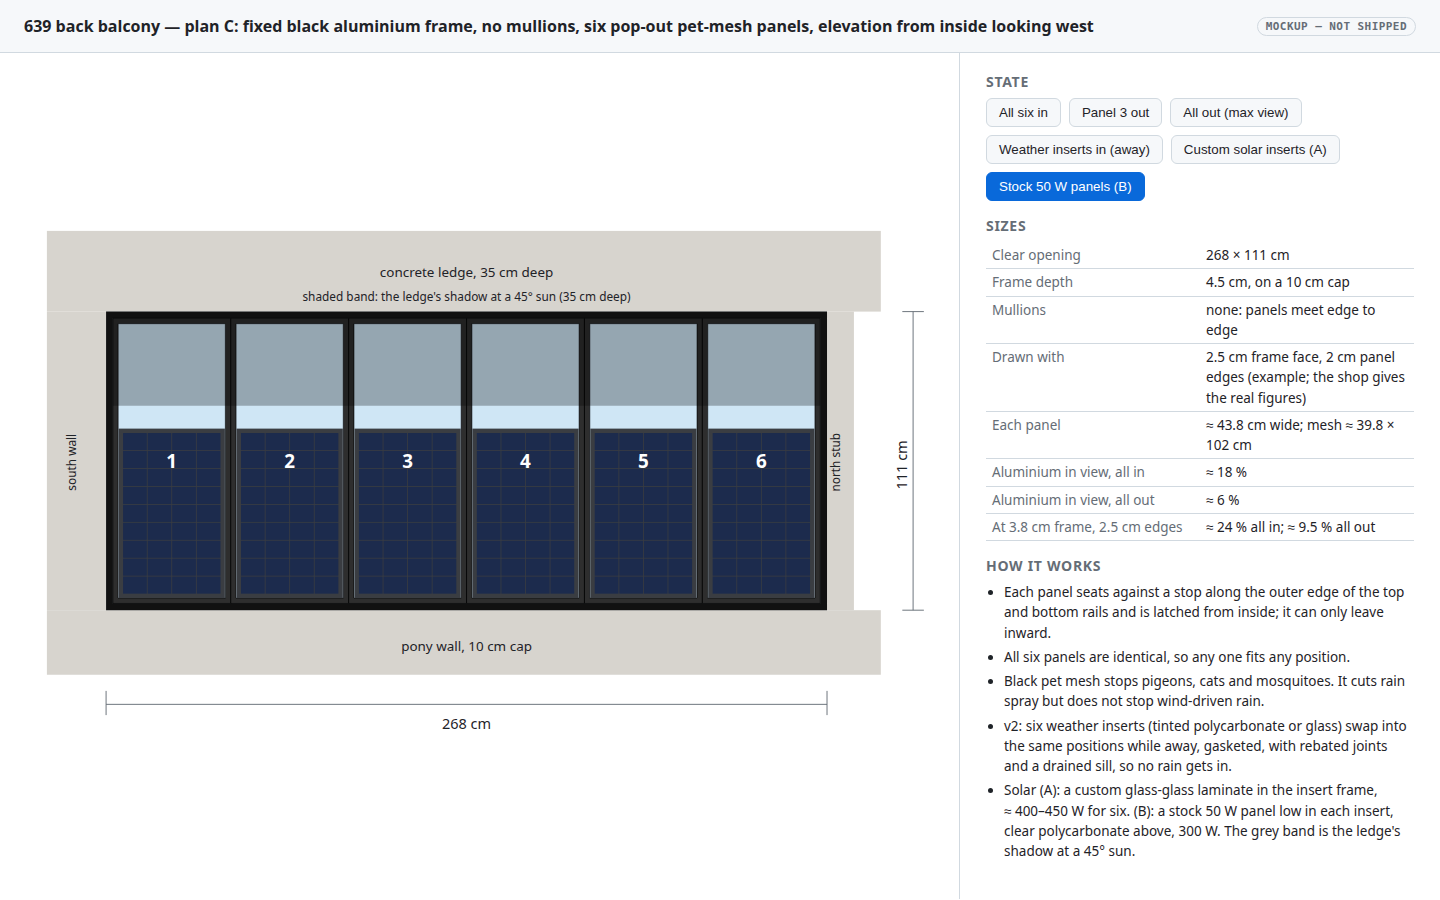
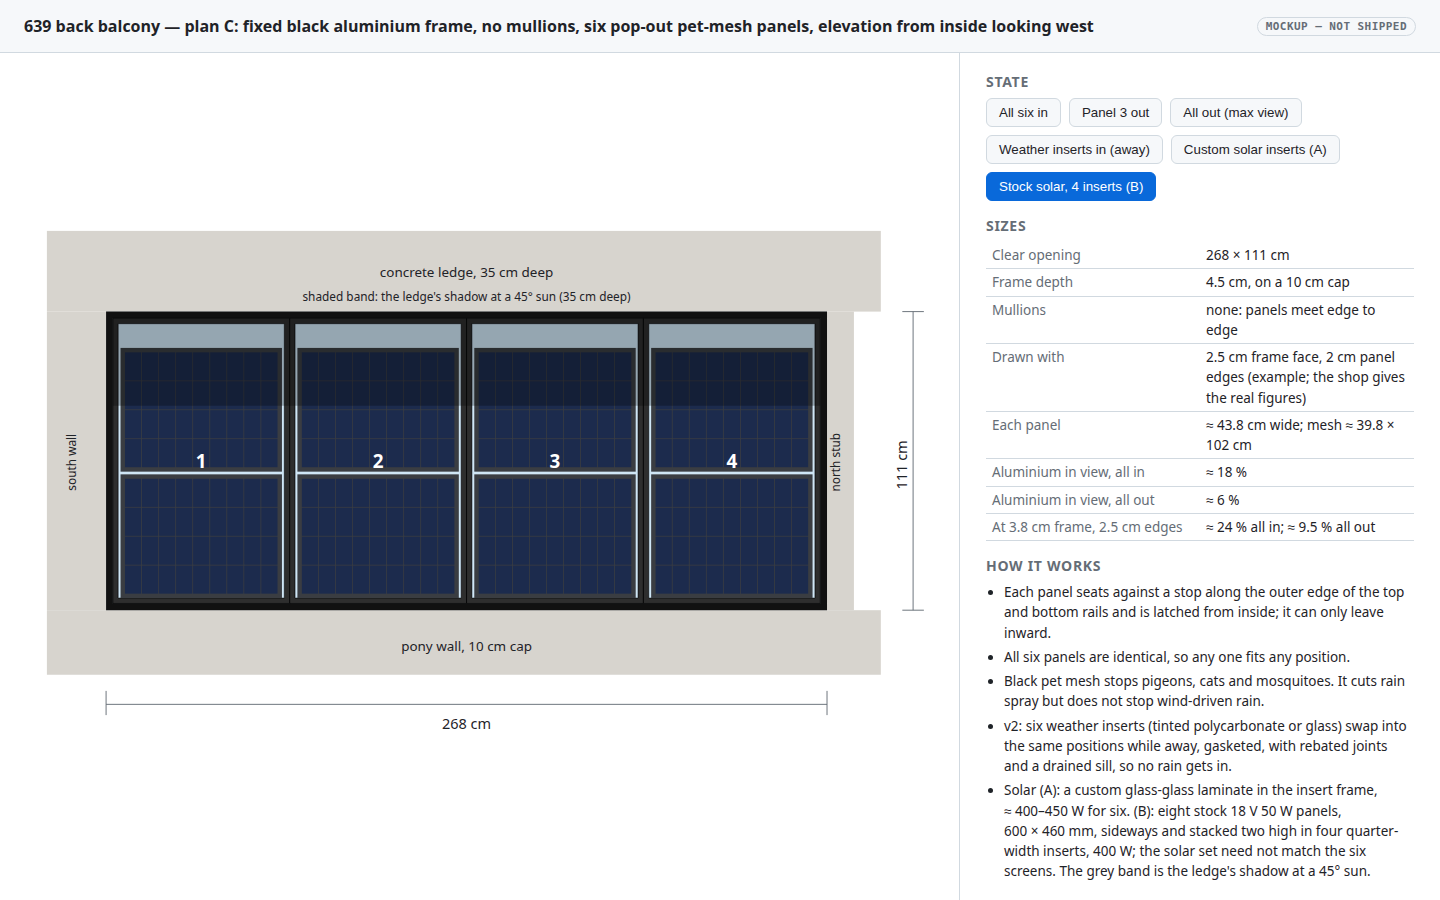
Balcony screen frame: Lazada stock panels; solar set no longer six-alike
Will (2026-11-11): six panels were for aesthetics, so the solar set need
not match them. Recommends eight 18 V 50 W panels (600 x 460, Lazada
flash price 234.52 THB) sideways, two high, in four quarter-width
inserts: 400 W, about 280-320 W after the ledge's shade. Adds the 18 V
30 W (390 x 430) and 80 W (960 x 460) sizes, revises the yield value and
payback (panels 2-3 years; whole kit 4.5-19 years), and redraws the
stock mockup state.

Claude-Session: https://claude.ai/code/session_01YEenqRTjYzU5APTKovfevg

Changed region(s): [[0.0625, 0.3422, 0.5625, 0.6844], [0.6875, 0.8711, 0.9688, 0.9956], [0.7188, 0.1867, 0.8125, 0.2178]]

diff --git a/docs/plans/2026-11-09-condo-639-balcony-screen-frame/elevation-plan-c.html b/docs/plans/2026-11-09-condo-639-balcony-screen-frame/elevation-plan-c.html
@@ -38,7 +38,7 @@
 <div class="side">
   <h2>State</h2>
   <div class="btns" id="states">
-    <button data-s="all">All six in</button><button data-s="one">Panel 3 out</button><button data-s="none">All out (max view)</button><button data-s="ins">Weather inserts in (away)</button><button data-s="solar">Custom solar inserts (A)</button><button data-s="stock">Stock 50 W panels (B)</button>
+    <button data-s="all">All six in</button><button data-s="one">Panel 3 out</button><button data-s="none">All out (max view)</button><button data-s="ins">Weather inserts in (away)</button><button data-s="solar">Custom solar inserts (A)</button><button data-s="stock">Stock solar, 4 inserts (B)</button>
   </div>
   <h2>Sizes</h2>
   <table>
@@ -57,7 +57,7 @@
     <li>All six panels are identical, so any one fits any position.</li>
     <li>Black pet mesh stops pigeons, cats and mosquitoes. It cuts rain spray but does not stop wind-driven rain.</li>
     <li>v2: six weather inserts (tinted polycarbonate or glass) swap into the same positions while away, gasketed, with rebated joints and a drained sill, so no rain gets in.</li>
-    <li>Solar (A): a custom glass-glass laminate in the insert frame, ≈&nbsp;400–450&nbsp;W for six. (B): a stock 50&nbsp;W panel low in each insert, clear polycarbonate above, 300&nbsp;W. The grey band is the ledge's shadow at a 45° sun.</li>
+    <li>Solar (A): a custom glass-glass laminate in the insert frame, ≈&nbsp;400–450&nbsp;W for six. (B): eight stock 18&nbsp;V 50&nbsp;W panels, 600&nbsp;×&nbsp;460&nbsp;mm, sideways and stacked two high in four quarter-width inserts, 400&nbsp;W; the solar set need not match the six screens. The grey band is the ledge's shadow at a 45° sun.</li>
   </ul>
 </div>
 </main>
@@ -73,10 +73,18 @@ function draw(state){
   g+=`<text x="-11" y="56" font-size="4.4" text-anchor="middle" transform="rotate(-90 -11 56)">south wall</text><text x="273" y="56" font-size="4.4" text-anchor="middle" transform="rotate(-90 273 56)">north stub</text>`;
   // frame: perimeter only, no mullions; each panel has its own edge frame S
   g+=`<path fill="var(--frame)" fill-rule="evenodd" d="M0 0H${W}V${H}H0Z M${F} ${F}H${W-F}V${H-F}H${F}Z"/>`;
-  for(let i=0;i<6;i++){
+  if(state==='stock'){ const qw=(W-2*F)/4;
+    for(let i=0;i<4;i++){ const x=F+i*qw;
+      g+=`<path fill="#2e2e2e" fill-rule="evenodd" stroke="#000" stroke-width=".3" d="M${x} ${F}h${qw}v${bh}h${-qw}Z M${x+S} ${F+S}v${bh-2*S}h${qw-2*S}v${-(bh-2*S)}Z"/><rect x="${x+S}" y="${F+S}" width="${qw-2*S}" height="${bh-2*S}" fill="rgba(207,230,245,.35)"/>`;
+      const pw=60, ph=46, px=x+(qw-pw)/2;
+      for(let k=0;k<2;k++){ const py=F+bh-S-ph*(k+1)-k*1; g+=`<rect x="${px}" y="${py}" width="${pw}" height="${ph}" fill="#3a3d42"/>`; const cw=(pw-3)/9, ch=(ph-3)/4;
+        for(let r=0;r<4;r++) for(let c=0;c<9;c++) g+=`<rect x="${px+1.5+c*cw+.15}" y="${py+1.5+r*ch+.15}" width="${cw-.3}" height="${ch-.3}" fill="#1c2b4d"/>`; }
+      g+=`<rect x="${x}" y="${F}" width="${qw}" height="32.5" fill="rgba(0,0,0,.28)"/><text x="${x+qw/2}" y="58" font-size="7" font-weight="700" text-anchor="middle" style="fill:#fff">${i+1}</text>`; }
+  }
+  for(let i=0;i<6;i++){ if(state==='stock') break;
     const x=F+i*bw, out = state==='none' || (state==='one' && i===2), ins = state==='ins', sol = state==='solar', stk = state==='stock';
     if(!out) g+=`<path fill="#2e2e2e" fill-rule="evenodd" stroke="#000" stroke-width=".3" d="M${x} ${F}h${bw}v${bh}h${-bw}Z M${x+S} ${F+S}v${bh-2*S}h${bw-2*S}v${-(bh-2*S)}Z"/><rect x="${x+S}" y="${F+S}" width="${bw-2*S}" height="${bh-2*S}" fill="${ins?'rgba(120,105,85,.55)':sol?'#d9dde3':stk?'rgba(207,230,245,.35)':'url(#mesh)'}"/>`;
-    if(!out && stk){ const pw=39.5, ph=63, px=x+(bw-pw)/2, py=F+bh-S-ph; g+=`<rect x="${px}" y="${py}" width="${pw}" height="${ph}" fill="#3a3d42"/>`; const cw=(pw-3)/4, ch=(ph-3)/9; for(let r=0;r<9;r++) for(let c=0;c<4;c++) g+=`<rect x="${px+1.5+c*cw+.15}" y="${py+1.5+r*ch+.15}" width="${cw-.3}" height="${ch-.3}" fill="#1c2b4d"/>`; g+=`<rect x="${x}" y="${F}" width="${bw}" height="32.5" fill="rgba(0,0,0,.28)"/>`; }
+    if(!out && stk){ const pw=39, ph=43, px=x+(bw-pw)/2; for(let k=0;k<2;k++){ const py=F+bh-S-ph*(k+1)-k*1; g+=`<rect x="${px}" y="${py}" width="${pw}" height="${ph}" fill="#3a3d42"/>`; const cw=(pw-3)/4, ch=(ph-3)/9; for(let r=0;r<9;r++) for(let c=0;c<4;c++) g+=`<rect x="${px+1.5+c*cw+.15}" y="${py+1.5+r*ch+.15}" width="${cw-.3}" height="${ch-.3}" fill="#1c2b4d"/>`; } g+=`<rect x="${x}" y="${F}" width="${bw}" height="32.5" fill="rgba(0,0,0,.28)"/>`; }
     if(!out && sol){ const cx=x+bw/2-18.4, cy=F+S+(bh-2*S-93)/2; for(let r=0;r<10;r++) for(let c=0;c<2;c++) g+=`<rect x="${cx+c*18.6}" y="${cy+r*9.3}" width="18.2" height="9.1" fill="#1c2b4d" stroke="#3d5689" stroke-width=".15"/>`; g+=`<rect x="${x}" y="${F}" width="${bw}" height="32.5" fill="rgba(0,0,0,.28)"/>`; }
     g+=`<text x="${x+bw/2}" y="58" font-size="7" font-weight="700" text-anchor="middle" opacity="${out?.35:1}" style="${(state==='solar'||state==='stock')?'fill:#fff':''}">${i+1}</text>`;
   }

diff --git a/docs/plans/2026-11-09-condo-639-balcony-screen-frame.md b/docs/plans/2026-11-09-condo-639-balcony-screen-frame.md
@@ -2,7 +2,7 @@
 
 9 November 2026 · **Being built** (Will, 2026‑11‑08). This is the plan for the balcony opening from now on. The earlier options, a motorised zip screen (plan A) and a glazed bi-fold window (plan B), are archived in the [balcony shade plan](2026-09-30-condo-balcony-shade.md), which also holds the game's level model of the balcony.
 
-**TL;DR.** A fixed black aluminium frame, 4.5 cm deep, with no mullions, fills the 268 × 111 cm opening. Six identical panels stand side by side in its rails and come out from inside for the full view. Three panel sets share the rails: **pet-mesh screens** for daily use, **weather inserts** (tinted polycarbonate or glass) that make it rain-tight while Will is away, and optional **solar inserts**: custom panels if a Thai maker will build six (≈ 350 W after the ledge's shade), or six stock 50 W panels from a Bangkok shop (≈ 245 W). Shop sheets: [v1](../rfq/2026-11-08-639-balcony-screen-frame-spec.pdf) (screens only) and [v2](../rfq/2026-11-08-639-balcony-screen-frame-spec-v2.pdf) (screens and weather inserts; give the shop this one).
+**TL;DR.** A fixed black aluminium frame, 4.5 cm deep, with no mullions, fills the 268 × 111 cm opening. Six identical panels stand side by side in its rails and come out from inside for the full view. Three panel sets share the rails: **pet-mesh screens** for daily use, **weather inserts** (tinted polycarbonate or glass) that make it rain-tight while Will is away, and optional **solar inserts**: custom panels if a Thai maker will build six (≈ 350 W after the ledge's shade), or eight stock 18 V 50 W panels from Lazada, two stacked sideways in each of four wider solar inserts (≈ 280–320 W). Shop sheets: [v1](../rfq/2026-11-08-639-balcony-screen-frame-spec.pdf) (screens only) and [v2](../rfq/2026-11-08-639-balcony-screen-frame-spec-v2.pdf) (screens and weather inserts; give the shop this one).
 
 ## Context
 
@@ -124,7 +124,9 @@ To take a panel out, release the bolt, lift the panel into the lift space, swing
 | Option | Where from | Inserts | Nameplate | After ledge shade | Notes |
 |---|---|---|---|---|---|
 | A. Custom glass-glass laminate, 2 × 10 half-cut cells, bands horizontal | ask Sunnergy or NSTHAI; China at 50+ pieces | 6 alike, swap with the screens | ≈ 420 W | ≈ 350 W | the best result, if a maker will build 6 |
-| B. **50 W stock panel, 630 × 395 × 25 mm**, one per insert at the bottom, clear polycarbonate above | [NSTHAI](https://www.nsthai.com/solar-panel) stock | 6 alike, swap with the screens | 300 W | ≈ 245 W | **recommended stock option**: available now, keeps six identical inserts, light |
+| B. **Eight 18 V 50 W stock panels, 600 × 460 mm, landscape, two stacked** in each of **four inserts a quarter of the width (≈ 65 cm)**, clear polycarbonate filling the rest, wired in parallel | Lazada, ฿234.52 each on a LazFlash sale (฿1,299 normally; screenshot 2026‑11‑11) | 4 wide, a solar-only set | 400 W | ≈ 280–320 W | **recommended**: the most power for the money, ≈ ฿1,880 for eight; landscape keeps the ledge's shadow to the top band; ≈ 8–10 kg per insert (estimate); needs latches that work at any width (open question 7) |
+| B2. Two 18 V 30 W stock panels, 390 × 430 mm, stacked at the bottom of each insert, clear polycarbonate above, wired in parallel | Lazada, ฿160.79 each on a LazFlash sale (฿699 normally; screenshot 2026‑11‑11) | 6 alike, swap with the screens | 360 W | ≈ 265–275 W | keeps six inserts that swap with the screens; ≈ ฿1,930 for twelve; each panel works on its own, so the lower one keeps charging while the ledge shades the upper one |
+| B3. 50 W stock panel, 630 × 395 × 25 mm, one per insert at the bottom | [NSTHAI](https://www.nsthai.com/solar-panel) stock | 6 alike | 300 W | ≈ 245 W | its 80 W (฿414) is 960 × 460 mm (22.7 V open-circuit, 4.44 A), also too wide for one insert; the 100 W (฿477) size is not read yet |
 | C. 60 W stock panel, 790 × 405 × 25 mm, at the bottom | [Solarbesttech](https://www.solarbesttech.com/th/products/444046-%E0%B9%81%E0%B8%9C%E0%B8%87%E0%B9%82%E0%B8%8B%E0%B8%A5%E0%B9%88%E0%B8%B2%E0%B9%80%E0%B8%8B%E0%B8%A5%E0%B8%A5%E0%B9%8C-mono-solar-panel-%E0%B8%A3%E0%B8%B8%E0%B9%88%E0%B8%99-gspv60m-60w-5bb) | 6 alike | 360 W | ≈ 250 W | taller, so it reaches up into more shadow; 40.5 cm wide, so the insert edge covers its frame border |
 | D. 100 W stock panel, 620 × 765 mm, turned landscape at the bottom | NSTHAI stock | 3 double-width (≈ 88 cm) | 300 W | ≈ 265 W | least shade loss if its diode halves become bands; ≈ 8 kg per insert (estimate) |
 | E. 150 W stock panel, 980 × 765 mm, portrait | NSTHAI stock | 3 double-width | 450 W | ≈ 225 W | fits with no overhang, but portrait: the ledge costs about half; ≈ 10 kg per insert (estimate) |
@@ -135,22 +137,22 @@ The "after ledge shade" column applies the shadow figures above to each layout (
 
 **The overhang idea (Will).** A 160 W panel at 1055 × 765 mm is 3.5–7.5 cm too tall for a double-width insert, and its bottom could hang below the cap on the room side in a holding channel. It would need the frame set at the cap's inner edge and a sill that lets the panel pass inboard of the water dam, so a sill that the shop has not drawn yet; and as a portrait panel it loses about half to the ledge, ≈ 240 W after shade. Option E fits without the overhang, and B, D or G do better, so the overhang is not worth the special sill.
 
-[![Option B: stock 50 W panels low in each insert](2026-11-09-condo-639-balcony-screen-frame/elevation-plan-c-stock.png)](2026-11-09-condo-639-balcony-screen-frame/elevation-plan-c.html#stock)
+[![Option B: eight stock 50 W panels, landscape, in four wide inserts](2026-11-09-condo-639-balcony-screen-frame/elevation-plan-c-stock.png)](2026-11-09-condo-639-balcony-screen-frame/elevation-plan-c.html#stock)
 
-**Recommendation.** Ask Sunnergy and NSTHAI to quote option A. If neither will build six, use option B: six stock 50 W panels, one at the bottom of each insert, clear polycarbonate above. Any of the double-width options (D, E) needs the cam latches to work at any panel width, so ask the shop now whether the latches engage a continuous groove along the rails (open question 7).
+**Recommendation.** Ask Sunnergy and NSTHAI to quote option A. If neither will build six, use option B: eight stock 18 V 50 W panels, turned sideways and stacked two high in four inserts a quarter of the width. The six screens set the look of the frame; the solar set has no reason to match them (Will, 2026‑11‑11: "6 panels was for aesthetics"). Any of the double-width options (D, E) needs the cam latches to work at any panel width, so ask the shop now whether the latches engage a continuous groove along the rails (open question 7).
 
 **Thickness.** Stock panels are 25–30 mm thick against a 16 mm insert. The insert frame holds the panel with its glass in the insert's plane, and the panel's frame stands about 10–15 mm proud on the room side, which the rails do not mind. A gasket or silicone bead seals the panel's frame to the insert frame on the outside face.
 
-**Yield and the ledge.** [PVGIS](https://re.jrc.ec.europa.eu/pvg_tools/en/) gives 671 kWh per kW per year for a vertical west face in Bangkok (13.70 N, 100.55 E, 14 % system losses), 46 % of the 1,472 at the best tilt of 17°. The 35 cm ledge shades the top of the panels whenever the sun is high: by a sun-path calculation, about a third of the direct sun reaching the sheets falls in its shadow, and direct sun is roughly half of what a west wall receives, so expect about 15–20 % less. That holds only if the **bypass diodes split each laminate into horizontal bands**, because the shadow moves down from the top; cells strung top to bottom would lose most of their output whenever the top row is shaded. So the six custom laminates give about 230 kWh a year, ≈ 0.6 kWh a day, if fitted all year; the stock options in the table give roughly 0.4–0.5 kWh a day. **What it is worth** at MEA's residential rates from the September 2026 bill, with Ft 0.1623 and 7 % VAT ([Sanook](https://www.sanook.com/news/9903946/), [ERC Ft](https://www.erc.or.th/th/document-ft/)): at the base rate for the first 200 units a month (3.0000), 3.38 THB/kWh, 671 kWh (one kW of panels for a year) is ≈ 2,270 THB, ≈ 189 THB a month; at the top rate above 400 units a month (4.3583), spread evenly as 55.9 kWh a month, 4.84 THB/kWh, it is ≈ 3,246 THB, ≈ 270 THB a month. The custom set fitted all year, ≈ 230 kWh, is worth ≈ 780–1,110 THB a year, and option B, ≈ 165 kWh, ≈ 560–800 THB, before battery losses and only for power the battery's loads actually use.
+**Yield and the ledge.** [PVGIS](https://re.jrc.ec.europa.eu/pvg_tools/en/) gives 671 kWh per kW per year for a vertical west face in Bangkok (13.70 N, 100.55 E, 14 % system losses), 46 % of the 1,472 at the best tilt of 17°. The 35 cm ledge shades the top of the panels whenever the sun is high: by a sun-path calculation, about a third of the direct sun reaching the sheets falls in its shadow, and direct sun is roughly half of what a west wall receives, so expect about 15–20 % less. That holds only if the **bypass diodes split each laminate into horizontal bands**, because the shadow moves down from the top; cells strung top to bottom would lose most of their output whenever the top row is shaded. So the six custom laminates give about 230 kWh a year, ≈ 0.6 kWh a day, if fitted all year; the stock options in the table give roughly 0.4–0.5 kWh a day. **What it is worth** at MEA's residential rates from the September 2026 bill, with Ft 0.1623 and 7 % VAT ([Sanook](https://www.sanook.com/news/9903946/), [ERC Ft](https://www.erc.or.th/th/document-ft/)): at the base rate for the first 200 units a month (3.0000), 3.38 THB/kWh, 671 kWh (one kW of panels for a year) is ≈ 2,270 THB, ≈ 189 THB a month; at the top rate above 400 units a month (4.3583), spread evenly as 55.9 kWh a month, 4.84 THB/kWh, it is ≈ 3,246 THB, ≈ 270 THB a month. The custom set fitted all year, ≈ 230 kWh, is worth ≈ 780–1,110 THB a year, and option B, ≈ 190–215 kWh, ≈ 640–1,040 THB, before battery losses and only for power the battery's loads actually use.
 
-**Payback (option B, estimates until quoted).** Six 50 W panels at about 1,000 THB each (NSTHAI lists its 20 W at 480 THB and asks for a quote on the 50 W), ≈ 6,000 THB; the insert frames and polycarbonate are needed for the weather inserts anyway. The off-grid kit adds a 20 A MPPT controller with a LiFePO4 setting, ≈ ฿1,000–1,200 on AliExpress Thailand (PowMr, or a 100 V-input unit with 400+ sales), and a 12 V LiFePO4 battery. 12.8 V 25 Ah (320 Wh) runs a 10 W router for about a day without sun; 50 Ah (640 Wh) about 2.5 days, the safer choice for monsoon weeks. AliExpress Thailand (11.11 sale, screenshots 2026‑11‑11): 3.2 V 25 Ah cells from ฿269 each, four 3.2 V 50 Ah cells for a DIY 12 V pack ≈ ฿4,770, both plus a 4S battery-management board; a ready-made 12 V 50 Ah pack with a Bluetooth BMS ≈ ฿8,400 (SYPOOE, 5.0★ from 15 reviews). Each list price is the cheapest size in its listing until the listing is opened. In all ≈ 9,000 THB (25 Ah DIY) to ≈ 16,000 THB (50 Ah ready-made), plus the shop's fitting charge. Against 560–800 THB a year if the panels were fitted all year:
+**Payback (option B, estimates until bought).** Eight 18 V 50 W panels at ฿234.52 each on a Lazada flash sale, ≈ ฿1,880 (≈ ฿10,400 at the normal ฿1,299); the insert frames and polycarbonate are needed for the weather inserts anyway. The off-grid kit adds a 20 A MPPT controller with a LiFePO4 setting, ≈ ฿1,000–1,200 on AliExpress Thailand (PowMr, or a 100 V-input unit with 400+ sales), and a 12 V LiFePO4 battery. 12.8 V 25 Ah (320 Wh) runs a 10 W router for about a day without sun; 50 Ah (640 Wh) about 2.5 days, the safer choice for monsoon weeks. AliExpress Thailand (11.11 sale, screenshots 2026‑11‑11): 3.2 V 25 Ah cells from ฿269 each, four 3.2 V 50 Ah cells for a DIY 12 V pack ≈ ฿4,770, both plus a 4S battery-management board; a ready-made 12 V 50 Ah pack with a Bluetooth BMS ≈ ฿8,400 (SYPOOE, 5.0★ from 15 reviews). Each list price is the cheapest size in its listing until the listing is opened. In all ≈ 4,800 THB (25 Ah DIY) to ≈ 12,000 THB (50 Ah ready-made), plus about ฿500 of cable and connectors and the shop's fitting charge. Against 640–1,040 THB a year if the panels were fitted all year:
 
 | Cost counted | Fitted all year | Fitted half the year |
 |---|---|---|
-| Panels only, ≈ 6,000 THB | 7.5–11 years | 15–21 years |
-| Whole off-grid kit, ≈ 9,000–16,000 THB | 11–29 years | 22–58 years |
+| Panels only, ≈ ฿1,880 | 2–3 years | 3.5–6 years |
+| Whole off-grid kit, ≈ 4,800–12,000 THB | 4.5–19 years | 9–37 years |
 
-A LiFePO4 battery lasts roughly ten years, so the whole kit pays back on electricity only if the panels stay in most of the year, after more than a decade. Since Will may fit them whenever he does not need the view, not only while away (2026‑11‑11), the "fitted all year" column is the realistic end. The value also counts only power the battery's loads use: a router alone (≈ 90 kWh a year, 300–435 THB) pays back far more slowly than loads that use the whole yield, such as a fan or charging while home. The case for solar here is mainly independent power, not the bill.
+With the flash-sale panels and a small DIY battery, the kit pays back in about 5 years if the panels stay in most of the year; with a ready-made 50 Ah battery, which lasts roughly ten years, it barely pays back. Since Will may fit them whenever he does not need the view, not only while away (2026‑11‑11), the "fitted all year" column is the realistic end. The value also counts only power the battery's loads use: a router alone (≈ 90 kWh a year, 300–435 THB) pays back far more slowly than loads that use the whole yield, such as a fan or charging while home. The case for solar here is mainly independent power, not the bill.
 
 **Wiring.** An edge-mounted slim junction box on each laminate with short leads and plug connectors at the sill, on the room side, so an insert still pops out after one unplug and the set still stacks to about 10 cm. Two strings of three panels run to a small MPPT charge controller indoors.
 
@@ -163,7 +165,7 @@ flowchart LR
   B --> L["Router, sensors, fan,<br/>lights, charging"]
 ```
 
-**Mixing sets.** All three sets have the same outer size, so positions can mix, for example solar at the ends and screens in the middle. A solar or weather insert has a rebated edge and a screen does not, so the joint between two different kinds needs a detail from the shop (open question 4). Rain-tightness needs all six positions sealed (inserts or solar).
+**Mixing sets.** The screens and weather inserts have the same outer size, so positions can mix; so can the six-alike solar options. The recommended solar set (option B) has four wider inserts and goes in as a whole. A solar or weather insert has a rebated edge and a screen does not, so the joint between two different kinds needs a detail from the shop (open question 4). Rain-tightness needs all six positions sealed (inserts or solar).
 
 ```mermaid
 stateDiagram-v2
@@ -181,7 +183,7 @@ stateDiagram-v2
 
 [![Elevation](2026-11-09-condo-639-balcony-screen-frame/elevation-plan-c.png)](2026-11-09-condo-639-balcony-screen-frame/elevation-plan-c.html)
 
-**Elevation**: the black perimeter frame with six panels meeting edge to edge, drawn with a 2.5 cm frame face and 2 cm panel edges. Buttons switch between all six screens in, panel 3 out, all out, weather inserts in, custom solar inserts in, and stock 50 W panels in (option B). [Open the interactive mockup](2026-11-09-condo-639-balcony-screen-frame/elevation-plan-c.html).
+**Elevation**: the black perimeter frame with six panels meeting edge to edge, drawn with a 2.5 cm frame face and 2 cm panel edges. Buttons switch between all six screens in, panel 3 out, all out, weather inserts in, custom solar inserts in, and the four-insert stock solar set (option B). [Open the interactive mockup](2026-11-09-condo-639-balcony-screen-frame/elevation-plan-c.html).
 
 [![v2 frame details](2026-11-09-condo-639-balcony-screen-frame/frame-detail-v2.png)](2026-11-09-condo-639-balcony-screen-frame/frame-detail-v2.html)
 
@@ -199,7 +201,7 @@ stateDiagram-v2
 4. **Mixed sets.** Can a screen sit next to a weather or solar insert? The inserts have rebated edges and the screens do not. Ask the shop to detail that joint, or keep each set whole.
 5. ~~**Does this replace the zip screen and the bi-fold?**~~ Answered 2026‑11‑09: yes, this is the plan going forward (Will); plans A and B are archived.
 6. ~~**Heat and damp while sealed.**~~ Answered 2026‑11‑08: the side window lets air through at all times (Will), so the balcony is not a closed box with the inserts in. The frame and inserts need no vent of their own.
-7. **Latches at any panel width?** Ask the shop whether the cam latches engage a continuous groove along the rails. If they do, double-width solar inserts (options D, E) fit later with no frame change; if the latch points are fixed at the six panel positions, only the six-alike options (A, B, C, F, G) do.
+7. **Latches at any panel width?** Ask the shop whether the cam latches engage a continuous groove along the rails. If they do, the recommended four-insert solar set (option B) and the double-width options (D, E) fit later with no frame change; if the latch points are fixed at the six panel positions, only the six-alike options (A, B2, B3, C, F, G) do.
 
 ## Out of scope
 

diff --git a/docs/plans/.history/2026-11-09-condo-639-balcony-screen-frame.md b/docs/plans/.history/2026-11-09-condo-639-balcony-screen-frame.md
@@ -1,5 +1,6 @@
 | Date | Change |
 |------|--------|
+| [2026-11-11](https://github.com/wbniv/WorldFoundry/commit/e7ba0bb8) | Balcony screen frame: solar inserts also go in to harvest power at home |
 | [2026-11-11](https://github.com/wbniv/WorldFoundry/commit/e84c3807) | Balcony screen frame: controller and 50 Ah battery prices; payback range |
 | [2026-11-11](https://github.com/wbniv/WorldFoundry/commit/d1a67569) | Balcony screen frame: battery prices from AliExpress Thailand; revised payback |
 | [2026-11-11](https://github.com/wbniv/WorldFoundry/commit/65ab436c) | Balcony screen frame: payback estimate for the solar option |
@@ -10,6 +11,11 @@
 | [2026-11-09](https://github.com/wbniv/WorldFoundry/commit/7a50bd79) | Balcony: break the screen frame out as its own plan; archive A and B |
 
 <!--history-meta v1
+e7ba0bb8	author	Will Norris
+e7ba0bb8	added	13
+e7ba0bb8	deleted	10
+e7ba0bb8	files	1
+e7ba0bb8	body	Will (2026-11-11): the solar set goes in whenever he would rather harvest\npower than have the view, not only while away. Updates the power use,\npayback reading, power diagram and panel-set state diagram.\n\nCo-Authored-By: Claude Opus 5.5 <noreply@anthropic.com>\nClaude-Session: https://claude.ai/code/session_01YEenqRTjYzU5APTKovfevg
 e84c3807	author	Will Norris
 e84c3807	added	2
 e84c3807	deleted	2
